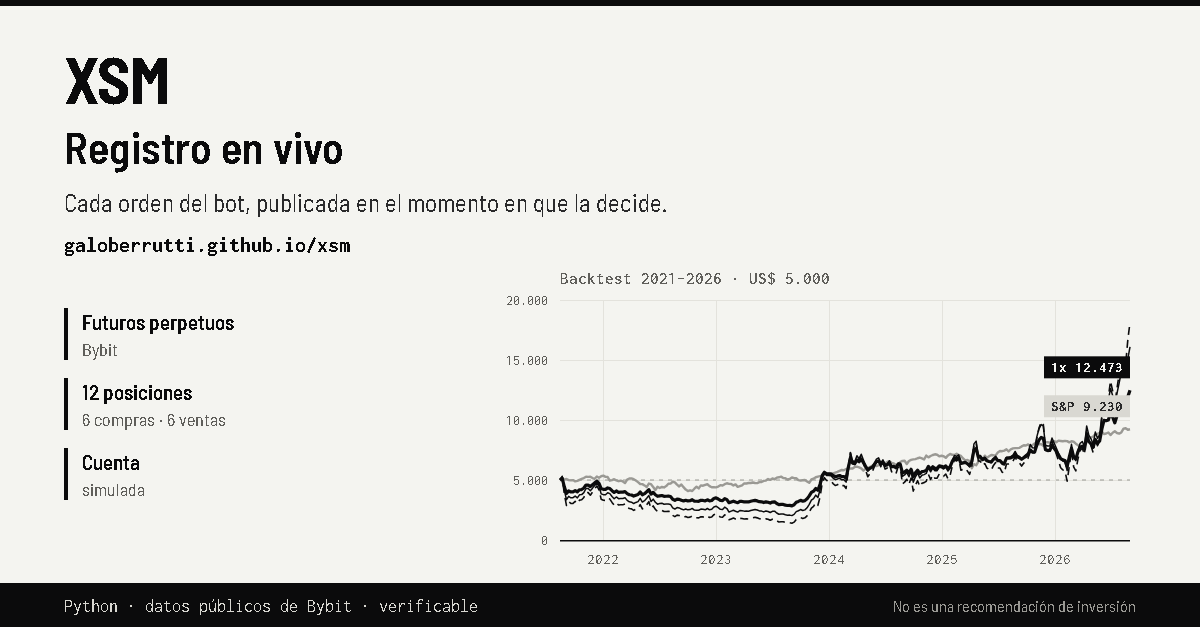
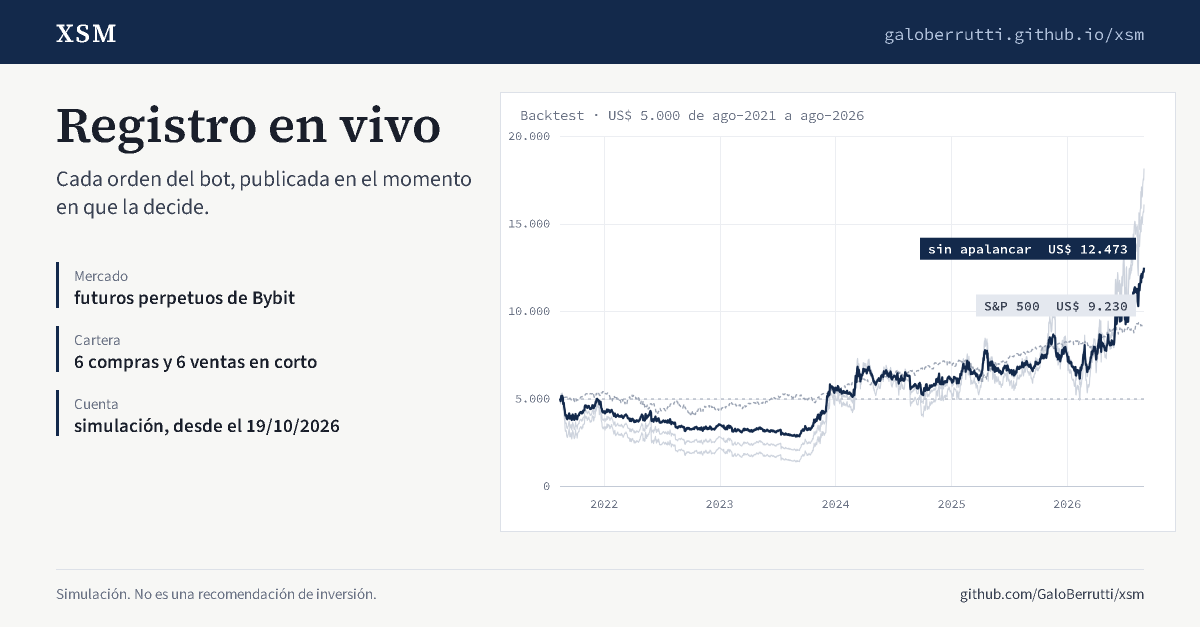
Página: política de seguridad de contenido y vista previa nueva
- El navegador solo ejecuta los scripts del propio sitio y solo se conecta con Bybit y GitHub.
- La imagen que aparece al compartir el link pasa a la estética actual de la página.

diff --git a/index.html b/index.html
@@ -1,1 +1,1 @@
-<!doctype html><html lang="es"><head><meta charset="utf-8"><meta name="viewport" content="width=device-width, initial-scale=1"><title>XSM · registro en vivo</title><meta name="description" content="Órdenes, llenados y resultado del bot XSM, publicados en el momento en que el bot los decide."><meta property="og:type" content="website"><meta property="og:url" content="https://galoberrutti.github.io/xsm/"><meta property="og:title" content="XSM · registro en vivo"><meta property="og:description" content="Cada orden del bot, publicada en el momento en que la decide. Precios y comisiones basados en Bybit."><meta property="og:image" content="https://galoberrutti.github.io/xsm/portada.png"><meta property="og:image:width" content="1200"><meta property="og:image:height" content="627"><meta name="twitter:card" content="summary_large_image"><link rel="preconnect" href="https://fonts.googleapis.com"><link rel="preconnect" href="https://fonts.gstatic.com" crossorigin><link rel="stylesheet" href="https://fonts.googleapis.com/css2?family=Source+Sans+3:wght@400;600;700&family=Source+Serif+4:wght@600&family=Source+Code+Pro:wght@400;600&display=swap"><link rel="stylesheet" href="estilo.css?v=e2172b4bea"></head><body><header class="top"><div class="top-in"><span class="logo">XSM</span><div class="tk" id="tk"></div><div class="aj"><div class="menu" id="idioma"><button class="mb" id="idioma-b" type="button" aria-haspopup="true"><span id="idioma-v">ES</span></button><div class="ml" id="idioma-l"></div></div><div class="menu" id="zona"><button class="mb" id="zona-b" type="button" aria-haspopup="true"><span id="reloj">--:--:--</span><span id="zona-v">UTC</span></button><div class="ml ml-z" id="zona-l"></div></div></div></div></header><main><section class="hero"><div class="hero-txt"><h1 data-t="titulo">Registro en vivo</h1><p data-t="intro"></p><p class="tag" id="tag"></p></div><div class="cd"><span class="cd-k" id="cd-k"></span><span class="cd-v" id="cd-v">—</span><span class="cd-f" id="cd-f"></span></div></section><section class="kpi"><div><span class="k" data-t="k1"></span><span class="v" id="k1">—</span></div><div><span class="k" data-t="k2"></span><span class="v" id="k2">—</span></div><div><span class="k" data-t="k3"></span><span class="v" id="k3">—</span></div><div><span class="k" data-t="k4"></span><span class="v" id="k4">—</span></div></section><section class="box tabbox"><div class="tabs"><button type="button" class="on" data-tab="sem" data-t="sem_curso"></button><button type="button" data-tab="his" data-t="cerradas"></button><button type="button" data-tab="como" data-t="como"></button></div><div class="panel on" data-panel="sem"><div class="hd"><h2 id="sem-t"></h2><span id="sem-d"></span></div><div class="sc"><table id="sem"><thead><tr><th data-t="th_par"></th><th data-t="th_lado"></th><th class="r" data-t="th_peso"></th><th class="r" data-t="th_cierre"></th><th class="r" data-t="th_limite"></th><th data-t="th_estado"></th><th class="r" data-t="th_entrada"></th><th class="r" data-t="th_precio"></th><th class="r" data-t="th_var"></th><th class="r ay" data-t="th_aporte" data-ti="ti_aporte"></th></tr></thead><tbody></tbody></table></div><p class="nt" id="sem-n"></p></div><div class="panel" data-panel="his"><div class="sc"><table id="his"><thead><tr><th data-t="th_semana"></th><th class="r" data-t="th_res"></th><th class="r" data-t="th_acum"></th><th class="r" data-t="th_caida"></th><th class="r" data-t="th_llenadas"></th><th class="r" data-t="th_seguian"></th><th class="r" data-t="th_sinllenar"></th><th></th></tr></thead><tbody></tbody></table></div><p class="nt" id="his-n"></p></div><div class="panel" data-panel="como"><p class="gh" id="gh"></p><ol class="steps"><li><b data-t="p1t"></b><span id="p1"></span></li><li><b data-t="p2t"></b><span id="p2"></span></li><li><b data-t="p3t"></b><span id="p3"></span></li><li><b data-t="p4t"></b><span id="p4"></span></li></ol><details><summary data-t="reglas"></summary><ul><li data-t="r1"></li><li data-t="r2"></li><li data-t="r3"></li><li data-t="r4"></li><li data-t="r5"></li></ul></details></div></section></main><section class="bt-zona"><div class="bt-in"><div class="bt-hd"><h2 data-t="bt_titulo"></h2><p id="bt-sub"></p></div><div class="box"><div class="seg" id="bt-s"></div><div class="bt-ctl"><span class="m5" data-t="m_titulo"></span><div class="seg seg-m" id="bt-m"></div><div class="lee" id="bt-lee"></div></div><div class="cv"><canvas id="bt"></canvas></div></div><div class="box"><div class="hd"><h2 data-t="riesgo"></h2></div><div class="sc"><table class="rk" id="rk"><thead><tr><th data-t="th_cuenta"></th><th class="r" data-t="th_cada"></th><th class="r" data-t="th_suman"></th><th class="r" data-t="th_anual"></th></tr></thead><tbody></tbody></table></div></div></div></section><footer><span data-t="pie"></span><a href="https://github.com/GaloBerrutti/xsm" target="_blank" rel="noopener">github.com/GaloBerrutti/xsm</a></footer><script src="app.js?v=a1e4643dac"></script></body></html>
+<!doctype html><html lang="es"><head><meta charset="utf-8"><meta name="viewport" content="width=device-width, initial-scale=1"><meta http-equiv="Content-Security-Policy" content="default-src 'none'; script-src 'self'; style-src 'self' https://fonts.googleapis.com; font-src https://fonts.gstatic.com; img-src 'self' data:; connect-src 'self' https://api.bybit.com https://api.github.com; base-uri 'none'; form-action 'none'"><title>XSM · registro en vivo</title><meta name="description" content="Órdenes, llenados y resultado del bot XSM, publicados en el momento en que el bot los decide."><meta property="og:type" content="website"><meta property="og:url" content="https://galoberrutti.github.io/xsm/"><meta property="og:title" content="XSM · registro en vivo"><meta property="og:description" content="Cada orden del bot, publicada en el momento en que la decide. Precios y comisiones basados en Bybit."><meta property="og:image" content="https://galoberrutti.github.io/xsm/portada.png"><meta property="og:image:width" content="1200"><meta property="og:image:height" content="627"><meta name="twitter:card" content="summary_large_image"><link rel="preconnect" href="https://fonts.googleapis.com"><link rel="preconnect" href="https://fonts.gstatic.com" crossorigin><link rel="stylesheet" href="https://fonts.googleapis.com/css2?family=Source+Sans+3:wght@400;600;700&family=Source+Serif+4:wght@600&family=Source+Code+Pro:wght@400;600&display=swap"><link rel="stylesheet" href="estilo.css?v=e2172b4bea"></head><body><header class="top"><div class="top-in"><span class="logo">XSM</span><div class="tk" id="tk"></div><div class="aj"><div class="menu" id="idioma"><button class="mb" id="idioma-b" type="button" aria-haspopup="true"><span id="idioma-v">ES</span></button><div class="ml" id="idioma-l"></div></div><div class="menu" id="zona"><button class="mb" id="zona-b" type="button" aria-haspopup="true"><span id="reloj">--:--:--</span><span id="zona-v">UTC</span></button><div class="ml ml-z" id="zona-l"></div></div></div></div></header><main><section class="hero"><div class="hero-txt"><h1 data-t="titulo">Registro en vivo</h1><p data-t="intro"></p><p class="tag" id="tag"></p></div><div class="cd"><span class="cd-k" id="cd-k"></span><span class="cd-v" id="cd-v">—</span><span class="cd-f" id="cd-f"></span></div></section><section class="kpi"><div><span class="k" data-t="k1"></span><span class="v" id="k1">—</span></div><div><span class="k" data-t="k2"></span><span class="v" id="k2">—</span></div><div><span class="k" data-t="k3"></span><span class="v" id="k3">—</span></div><div><span class="k" data-t="k4"></span><span class="v" id="k4">—</span></div></section><section class="box tabbox"><div class="tabs"><button type="button" class="on" data-tab="sem" data-t="sem_curso"></button><button type="button" data-tab="his" data-t="cerradas"></button><button type="button" data-tab="como" data-t="como"></button></div><div class="panel on" data-panel="sem"><div class="hd"><h2 id="sem-t"></h2><span id="sem-d"></span></div><div class="sc"><table id="sem"><thead><tr><th data-t="th_par"></th><th data-t="th_lado"></th><th class="r" data-t="th_peso"></th><th class="r" data-t="th_cierre"></th><th class="r" data-t="th_limite"></th><th data-t="th_estado"></th><th class="r" data-t="th_entrada"></th><th class="r" data-t="th_precio"></th><th class="r" data-t="th_var"></th><th class="r ay" data-t="th_aporte" data-ti="ti_aporte"></th></tr></thead><tbody></tbody></table></div><p class="nt" id="sem-n"></p></div><div class="panel" data-panel="his"><div class="sc"><table id="his"><thead><tr><th data-t="th_semana"></th><th class="r" data-t="th_res"></th><th class="r" data-t="th_acum"></th><th class="r" data-t="th_caida"></th><th class="r" data-t="th_llenadas"></th><th class="r" data-t="th_seguian"></th><th class="r" data-t="th_sinllenar"></th><th></th></tr></thead><tbody></tbody></table></div><p class="nt" id="his-n"></p></div><div class="panel" data-panel="como"><p class="gh" id="gh"></p><ol class="steps"><li><b data-t="p1t"></b><span id="p1"></span></li><li><b data-t="p2t"></b><span id="p2"></span></li><li><b data-t="p3t"></b><span id="p3"></span></li><li><b data-t="p4t"></b><span id="p4"></span></li></ol><details><summary data-t="reglas"></summary><ul><li data-t="r1"></li><li data-t="r2"></li><li data-t="r3"></li><li data-t="r4"></li><li data-t="r5"></li></ul></details></div></section></main><section class="bt-zona"><div class="bt-in"><div class="bt-hd"><h2 data-t="bt_titulo"></h2><p id="bt-sub"></p></div><div class="box"><div class="seg" id="bt-s"></div><div class="bt-ctl"><span class="m5" data-t="m_titulo"></span><div class="seg seg-m" id="bt-m"></div><div class="lee" id="bt-lee"></div></div><div class="cv"><canvas id="bt"></canvas></div></div><div class="box"><div class="hd"><h2 data-t="riesgo"></h2></div><div class="sc"><table class="rk" id="rk"><thead><tr><th data-t="th_cuenta"></th><th class="r" data-t="th_cada"></th><th class="r" data-t="th_suman"></th><th class="r" data-t="th_anual"></th></tr></thead><tbody></tbody></table></div></div></div></section><footer><span data-t="pie"></span><a href="https://github.com/GaloBerrutti/xsm" target="_blank" rel="noopener">github.com/GaloBerrutti/xsm</a></footer><script src="app.js?v=a1e4643dac"></script></body></html>
